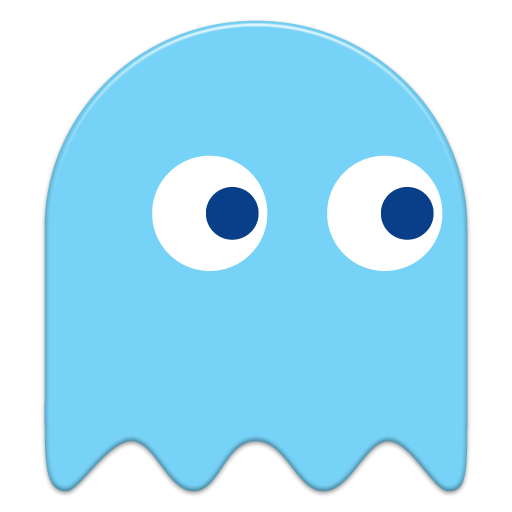
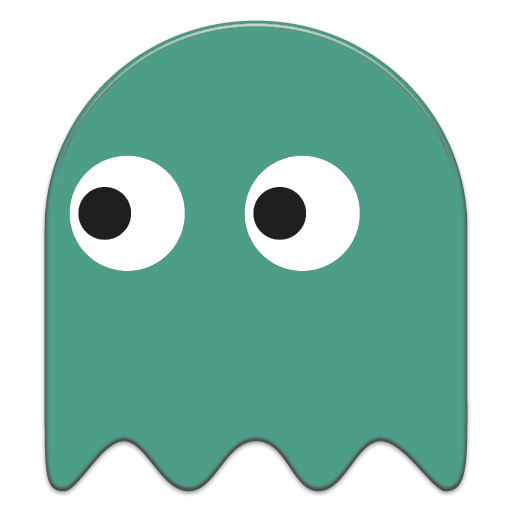
Adding Comments Pacman
Adding Comments to the basic pacman html as well as renaming the ghosts images

diff --git a/PACMAN/basic_pacman.html b/PACMAN/basic_pacman.html
@@ -20,10 +20,10 @@
             var max_time;
 
             var shape=new Object();
-            var m1_pos=new Object();
-            var m2_pos=new Object();
-            var m3_pos=new Object();
-            var bonus_pos=new Object();
+            var m1_pos=new Object(); //Position of First Ghost
+            var m2_pos=new Object(); //Position of Second Ghost
+            var m3_pos=new Object(); //Position of Third Ghost
+            var bonus_pos=new Object(); 
 
             var special_pos=new Object();
             var special;
@@ -46,17 +46,25 @@
 		Start();
 			
             function Start() {
-
-                board = new Array();
-                score = 0;
-                catched = 0
-                pac_color="yellow";
-                var cnt = 288;
-                var food_remain = 90;
-                var pacman_remain = 1;
-                lives = 5;
-                start_time= new Date();
-                special=1;
+             /*
+                Movement: ArrowUp,ArrowDown,ArrowLeft,ArrowRight
+                food: 90
+                FirstBall Color1 num1 num1Points
+                SecondBall Color2 num2 num2Points
+                ThirdBall Color2 num3 num3Points
+                GameTime: x seconds
+                Ghosts: 3
+            */
+            board = new Array();
+            score = 0;
+            catched = 0
+            pac_color="yellow";
+            var cnt = 288;
+            var food_remain = 90;
+            var pacman_remain = 1;
+            lives = 5;
+            start_time= new Date();
+            special=1;
 
             board = [
             [4, 4, 4, 4, 4 ,4 ,4 ,0 ,0, 4, 4, 4, 4, 4, 4, 4, 4, 4],
@@ -77,51 +85,63 @@
             [4, 0, 4, 4, 4 ,0 ,4 ,4 ,4, 0, 4, 0, 0, 0, 4, 4, 0, 4],
             [4, 6, 0, 0, 0 ,0 ,0 ,0 ,0, 0, 0, 0, 0, 0, 0, 0, 5, 4],
             [4, 4, 4, 4, 4, 4, 4, 0, 0, 4, 4, 4, 4, 4, 4, 4, 4, 4]
-        ]            
-                //ghosts
-                m1_pos.i=1;
-                m1_pos.j=1;
+            ]
+                        
+            //Ghosts start in corner
+            m1_pos.i=1;
+            m1_pos.j=1;
 
-                m2_pos.i=16;
-                m2_pos.j=16;
-                
-                for (var i = 0; i < 18; i++) {
-                    for (var j = 0; j < 18; j++) {
-                        if(board[i][j]==4 || board[i][j]==3 || board[i][j]==5 || board[i][j]==6){
-                            continue;
+            m2_pos.i=16;
+            m2_pos.j=16;
+            
+            
+            /*
+            1 = food
+            2 = pacman
+            3,5,6 = ghosts
+            4 = wall
+            */
+            for (var i = 0; i < 18; i++) { //18 is the number of rows and columns
+                for (var j = 0; j < 18; j++) {
+                    if(board[i][j]==4 || board[i][j]==3 || board[i][j]==5 || board[i][j]==6){
+                        continue;
+                    }
+                    //place food and pacman
+                    else{
+                        var randomNum = Math.random();
+                        if (randomNum <= 1.0 * food_remain / cnt) {
+                            food_remain--;
+                            board[i][j] = 1;
+                        } else if (randomNum < 1.0 * (pacman_remain + food_remain) / cnt) {
+                            shape.i=i;
+                            shape.j=j;
+                            pacman_remain--;
+                            board[i][j] = 2;
+                        } else {
+                            board[i][j] = 0;
                         }
-                        else{
-                            var randomNum = Math.random();
-                            if (randomNum <= 1.0 * food_remain / cnt) {
-                                food_remain--;
-                                board[i][j] = 1;
-                            } else if (randomNum < 1.0 * (pacman_remain + food_remain) / cnt) {
-                                shape.i=i;
-                                shape.j=j;
-                                pacman_remain--;
-                                board[i][j] = 2;
-                            } else {
-                                board[i][j] = 0;
-                            }
-                            cnt--;
-                        }
+                        cnt--;
                     }
                 }
-                while(food_remain > 0){
-					var emptyCell = findRandomEmptyCell(board);
-					board[emptyCell[0]][emptyCell[1]] = 1;
-					food_remain--;
-                }
-                keysDown = {};
-                addEventListener("keydown", function (e) {
-                    keysDown[e.keyCode] = true;
-                }, false);
-                addEventListener("keyup", function (e) {
-                    keysDown[e.keyCode] = false;
-                }, false);
-                interval=setInterval(UpdatePosition, 150);
-                interval=setInterval(UpdatePositionGhosts, 600);
             }
+
+            while(food_remain > 0){
+                var emptyCell = findRandomEmptyCell(board);
+                board[emptyCell[0]][emptyCell[1]] = 1;
+                food_remain--;
+            }
+            keysDown = {};
+            addEventListener("keydown", function (e) {
+                keysDown[e.keyCode] = true;
+            }, false);
+            addEventListener("keyup", function (e) {
+                keysDown[e.keyCode] = false;
+            }, false);
+            interval=setInterval(UpdatePosition, 150);
+            interval=setInterval(UpdatePositionGhosts, 600);
+                }
+            
+            //Find Cells For the food
             function findRandomEmptyCell(board){
              	var i = Math.floor((Math.random() * 9) + 1);
              	var j = Math.floor((Math.random() * 9) + 1);
@@ -132,21 +152,28 @@
     			}
                 return [i,j];             
             }
+
+            //Receive as input the key on which the user clicks and return value accordingly
             function GetKeyPressed() {
+                //ArrowUp
                 if (keysDown[38]) {
                     return 1;
                 }
+                //ArrowDown
                 if (keysDown[40]) { 
                     return 2;
                 }
+                //ArrowLeft
                 if (keysDown[37]) { 
                     return 3;
                 }
+                //ArrowRight
                 if (keysDown[39]) { 
                     return 4;
                 }
             }
 
+            //Allow the user to enter random game values
             function Randomize() {
                 ghost_num = Math.floor(Math.random() * 4);
                 balls = Math.floor(Math.random() * 51) + 40;
@@ -168,6 +195,7 @@
                         center.x = i * 40 + 30;
                         center.y = j * 40 + 30;
 
+                        //draw pacman
                         if (board[i][j] == 2) {
                             context.beginPath();
                             context.arc(center.x, center.y, 20, 0.15 * Math.PI, 1.85 * Math.PI); // half circle
@@ -179,36 +207,43 @@
                             context.fillStyle = "black"; //color 
                             context.fill();
                         }
+                        //draw foods
                         else if (board[i][j] == 1) {
                             context.beginPath();
                             context.arc(center.x, center.y, 10, 0, 2 * Math.PI); // circle
                             context.fillStyle = "white"; //color 
                             context.fill();
                         }
+                        //draw Ghost1
                         else if (board[i][j] == 3) {
                             base_image = new Image();
-                            base_image.src = 'ghost.png';
+                            base_image.src = 'ghost1.png';
                             context.drawImage(base_image, center.x-20, center.y-20, 40, 40);
                         }
+                        //draw Wall
                         else if (board[i][j] == 4) {
 
                             base_image = new Image();
                             base_image.src = 'wall7.png';
                             context.drawImage(base_image, center.x-20, center.y-20, 40, 40);
                         }
+                        //draw Ghost2
                         else if (board[i][j] == 5) {
                             base_image = new Image();
-                            base_image.src = 'ghost1.png';
+                            base_image.src = 'ghost2.png';
                             context.drawImage(base_image, center.x-20, center.y-20, 40, 40);
                         }
+                        //draw Ghost3
                         else if (board[i][j] == 6) {
                             base_image = new Image();
-                            base_image.src = 'ghost2.png';
+                            base_image.src = 'ghost3.png';
                             context.drawImage(base_image, center.x-20, center.y-20, 40, 40);
                         }
                     }
                 }
             }
+
+            //Makes the ghosts chase Pacman
             function UpdatePositionGhosts(){
                 if(m1_pos.i < shape.i && board[m1_pos.i+1][m1_pos.j]!=4 && board[m1_pos.i+1][m1_pos.j]!=5 && board[m1_pos.i+1][m1_pos.j]!=6) {
                         board[m1_pos.i][m1_pos.j] = prev;
@@ -235,9 +270,13 @@
                 }
             }
 
+            /* Update the position of pacman according
+            to what key has been pressed
+            */
             function UpdatePosition() {
             	board[shape.i][shape.j]=0;
                 var x = GetKeyPressed()
+                //Move Pacman Up
                 if(x==1)
                 {
                 	if(shape.j>0 && board[shape.i][shape.j-1]!=4)
@@ -245,6 +284,7 @@
                 		shape.j--;
                 	}
                 }
+                //Move Pacman Down
                 if(x==2)
                 {
                 	if(shape.j<17 && board[shape.i][shape.j+1]!=4)
@@ -252,6 +292,7 @@
                 		shape.j++;
                 	}
                 }
+                //Move Pacman To The Right
                 if(x==3)
                 {
                 	if(shape.i>0 && board[shape.i-1][shape.j]!=4)
@@ -259,6 +300,7 @@
                 		shape.i--;
                 	}
                 }
+                //Move Pacman To The Left
                 if(x==4)
                 {
                 	if(shape.i<17 && board[shape.i+1][shape.j]!=4)
@@ -266,15 +308,18 @@
                 		shape.i++;
                 	}
                 }
+                //Pacman moves to a place where there is food
                 if(board[shape.i][shape.j]==1)
                 {
                 	score++;
                 }
-                board[shape.i][shape.j]=2;
+                board[shape.i][shape.j]=2; //Draw pacman in his new position
                 var currentTime=new Date();
                 time_elapsed=(currentTime-start_time)/1000;
 
-                //ghost catch
+                /*
+                In case of a ghost catching pacman
+                */
                 if((shape.i==m1_pos.i && shape.j==m1_pos.j) || (shape.i==m2_pos.i && shape.j==m2_pos.j) || ((shape.i==m3_pos.i && shape.j==m3_pos.j))){
                     board[shape.i][shape.j] = 0;
                     board[m1_pos.i][m1_pos.j] = 0;
